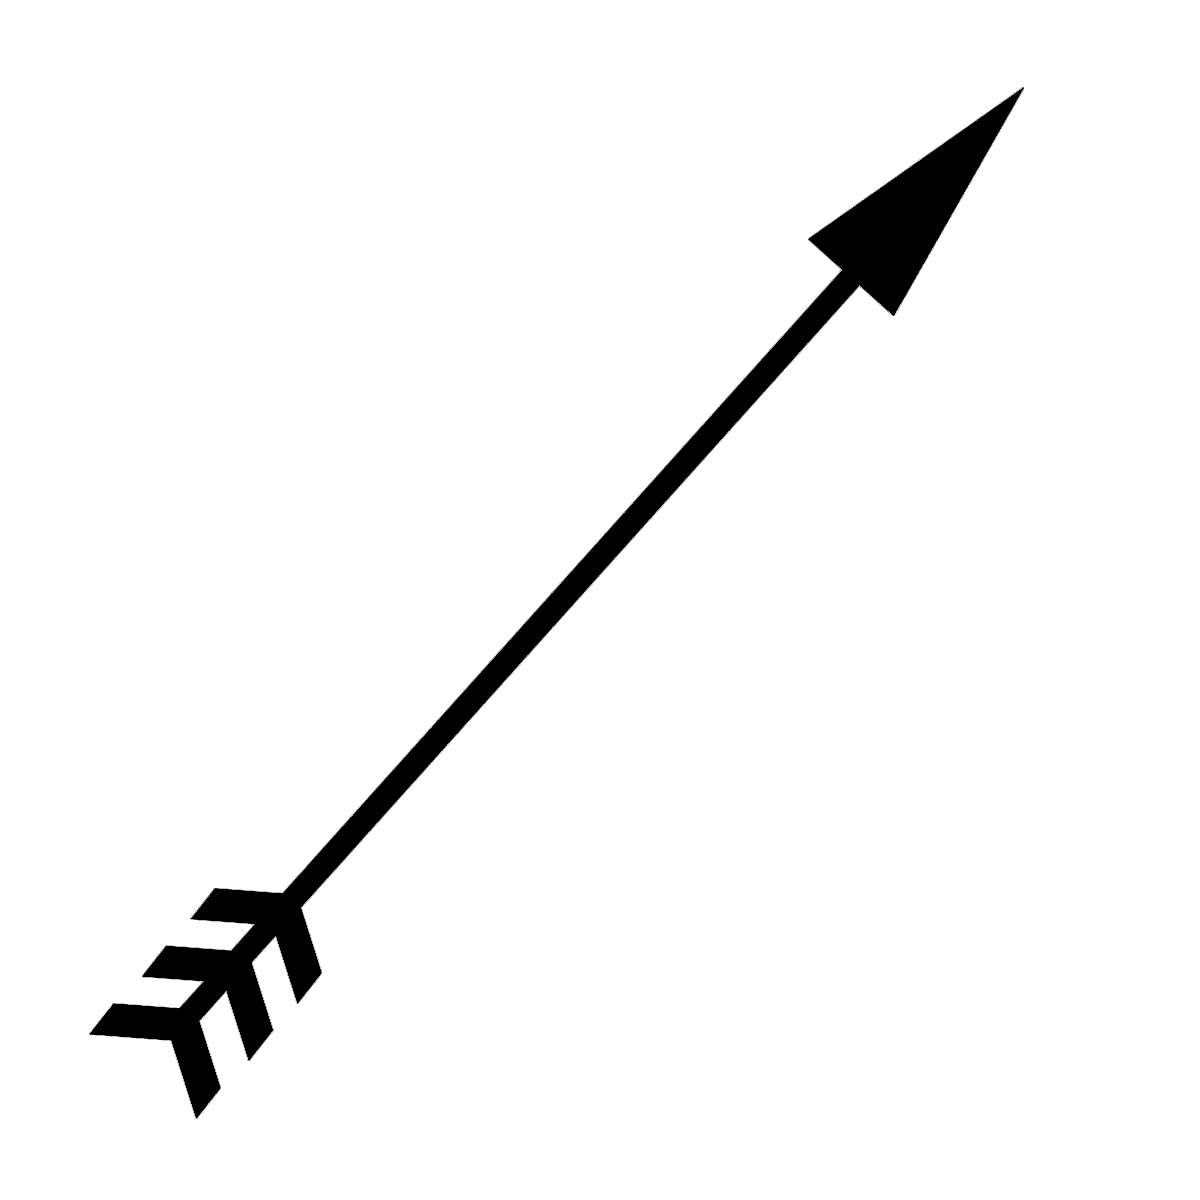
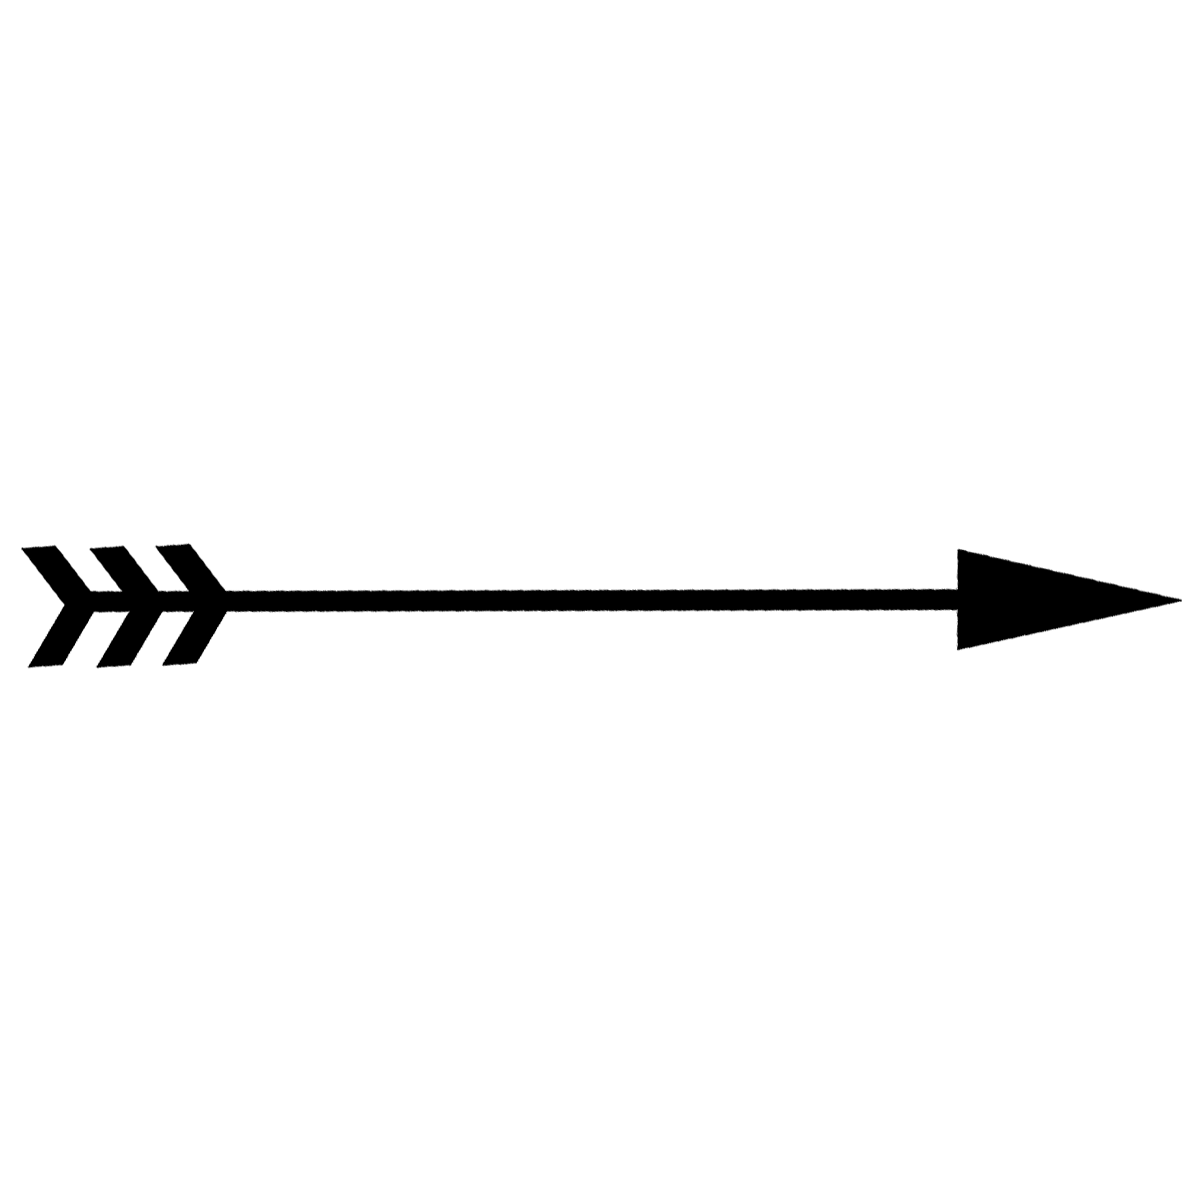
improvement :)

Changed region(s): [[0.0308, 0.0617, 0.9867, 0.925]]

diff --git a/src/main/java/controller/GameMenuController.java b/src/main/java/controller/GameMenuController.java
@@ -780,6 +780,6 @@ public class GameMenuController {
     }
 
     public static double getArrowAngle(double[] currentLocation, double[] destinationLocation) {
-        return Math.toDegrees(Math.atan((destinationLocation[1] - currentLocation[1]) / (destinationLocation[0] - currentLocation[0])))-45;
+        return Math.toDegrees(Math.atan((destinationLocation[1] - currentLocation[1]) / (destinationLocation[0] - currentLocation[0])));
     }
 }
